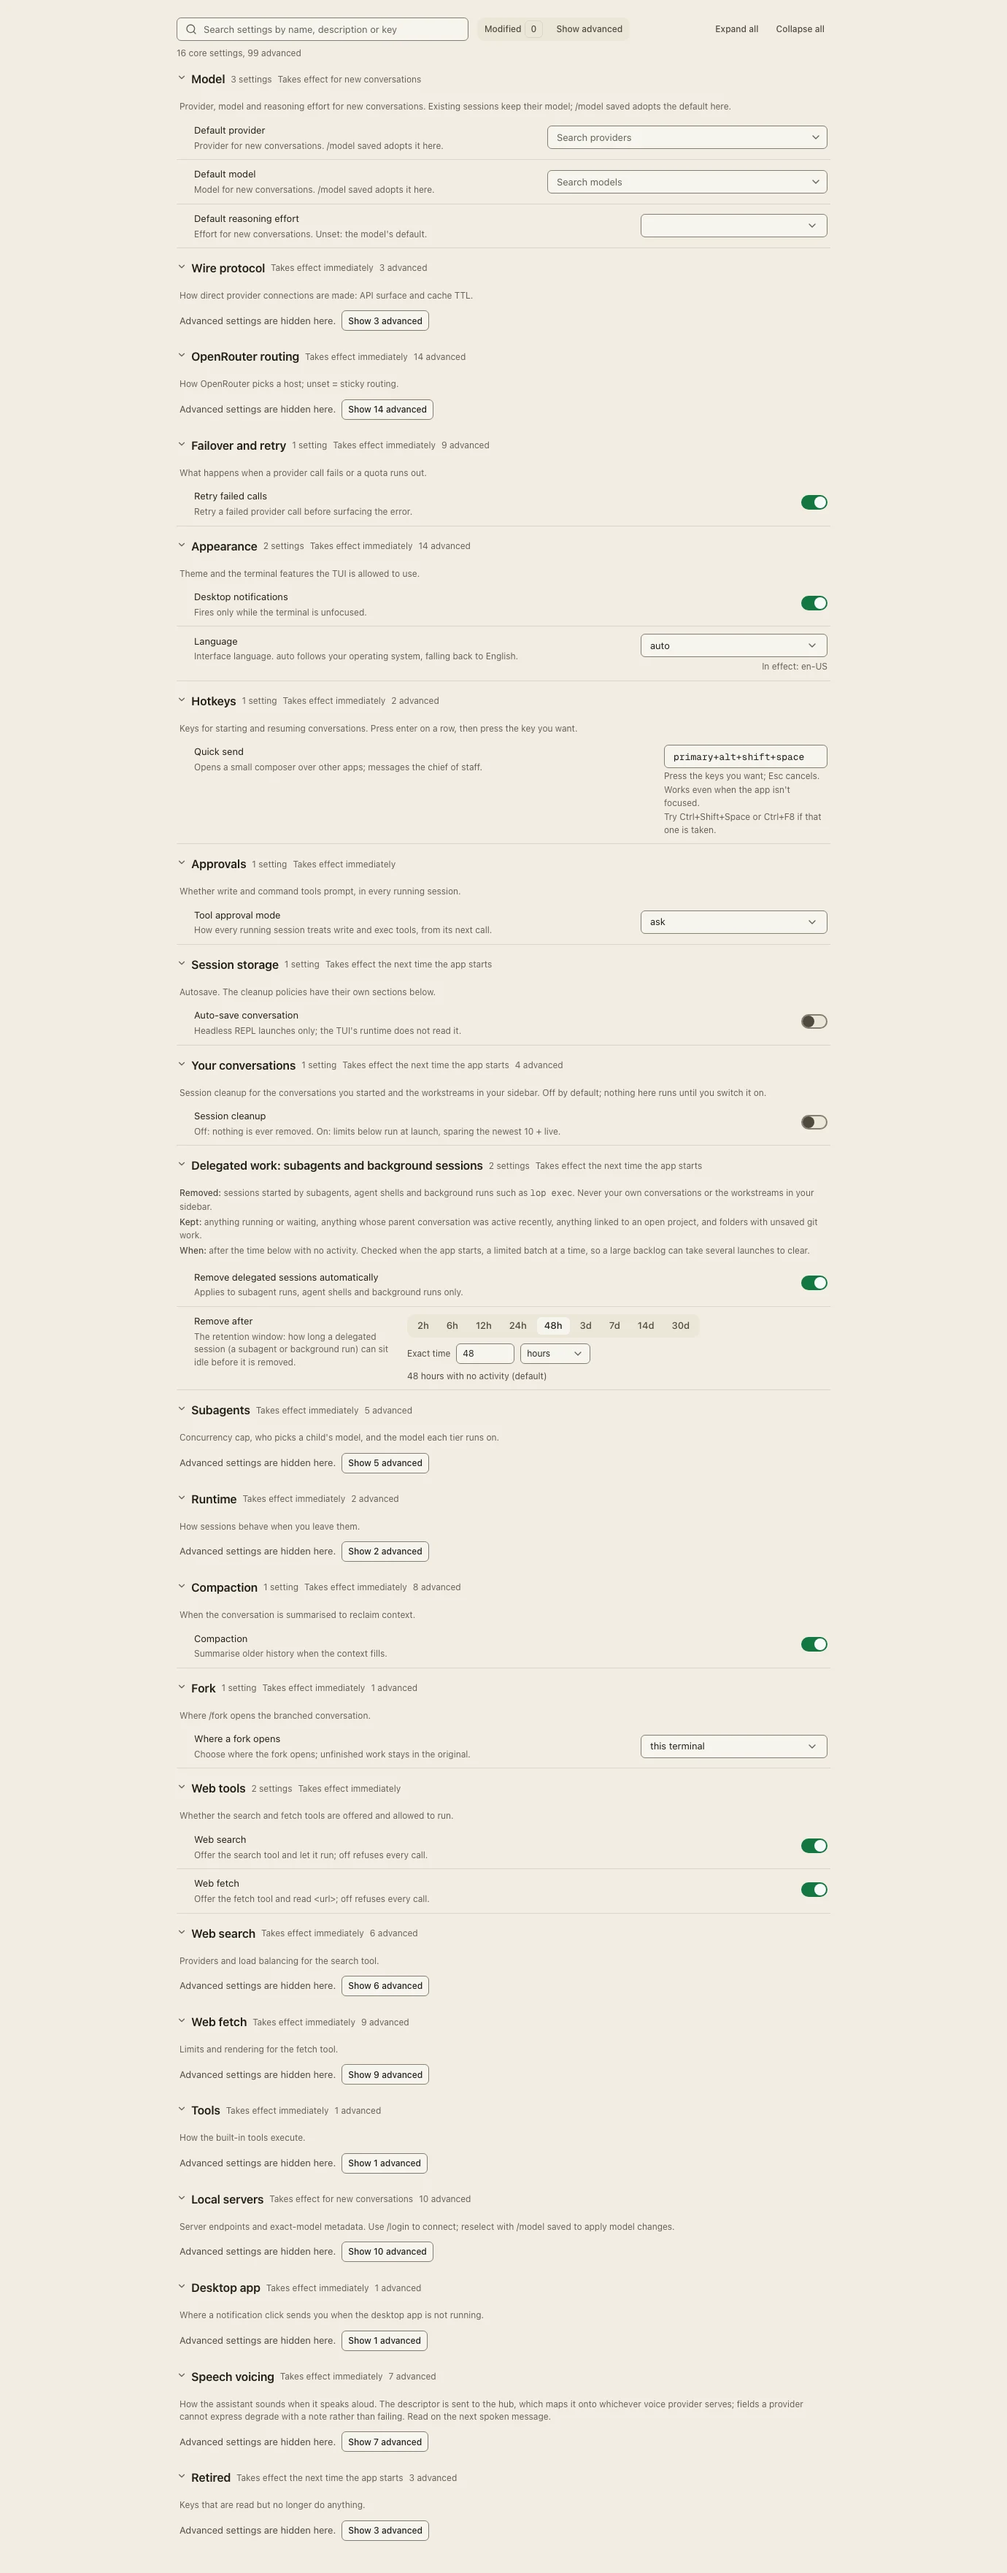
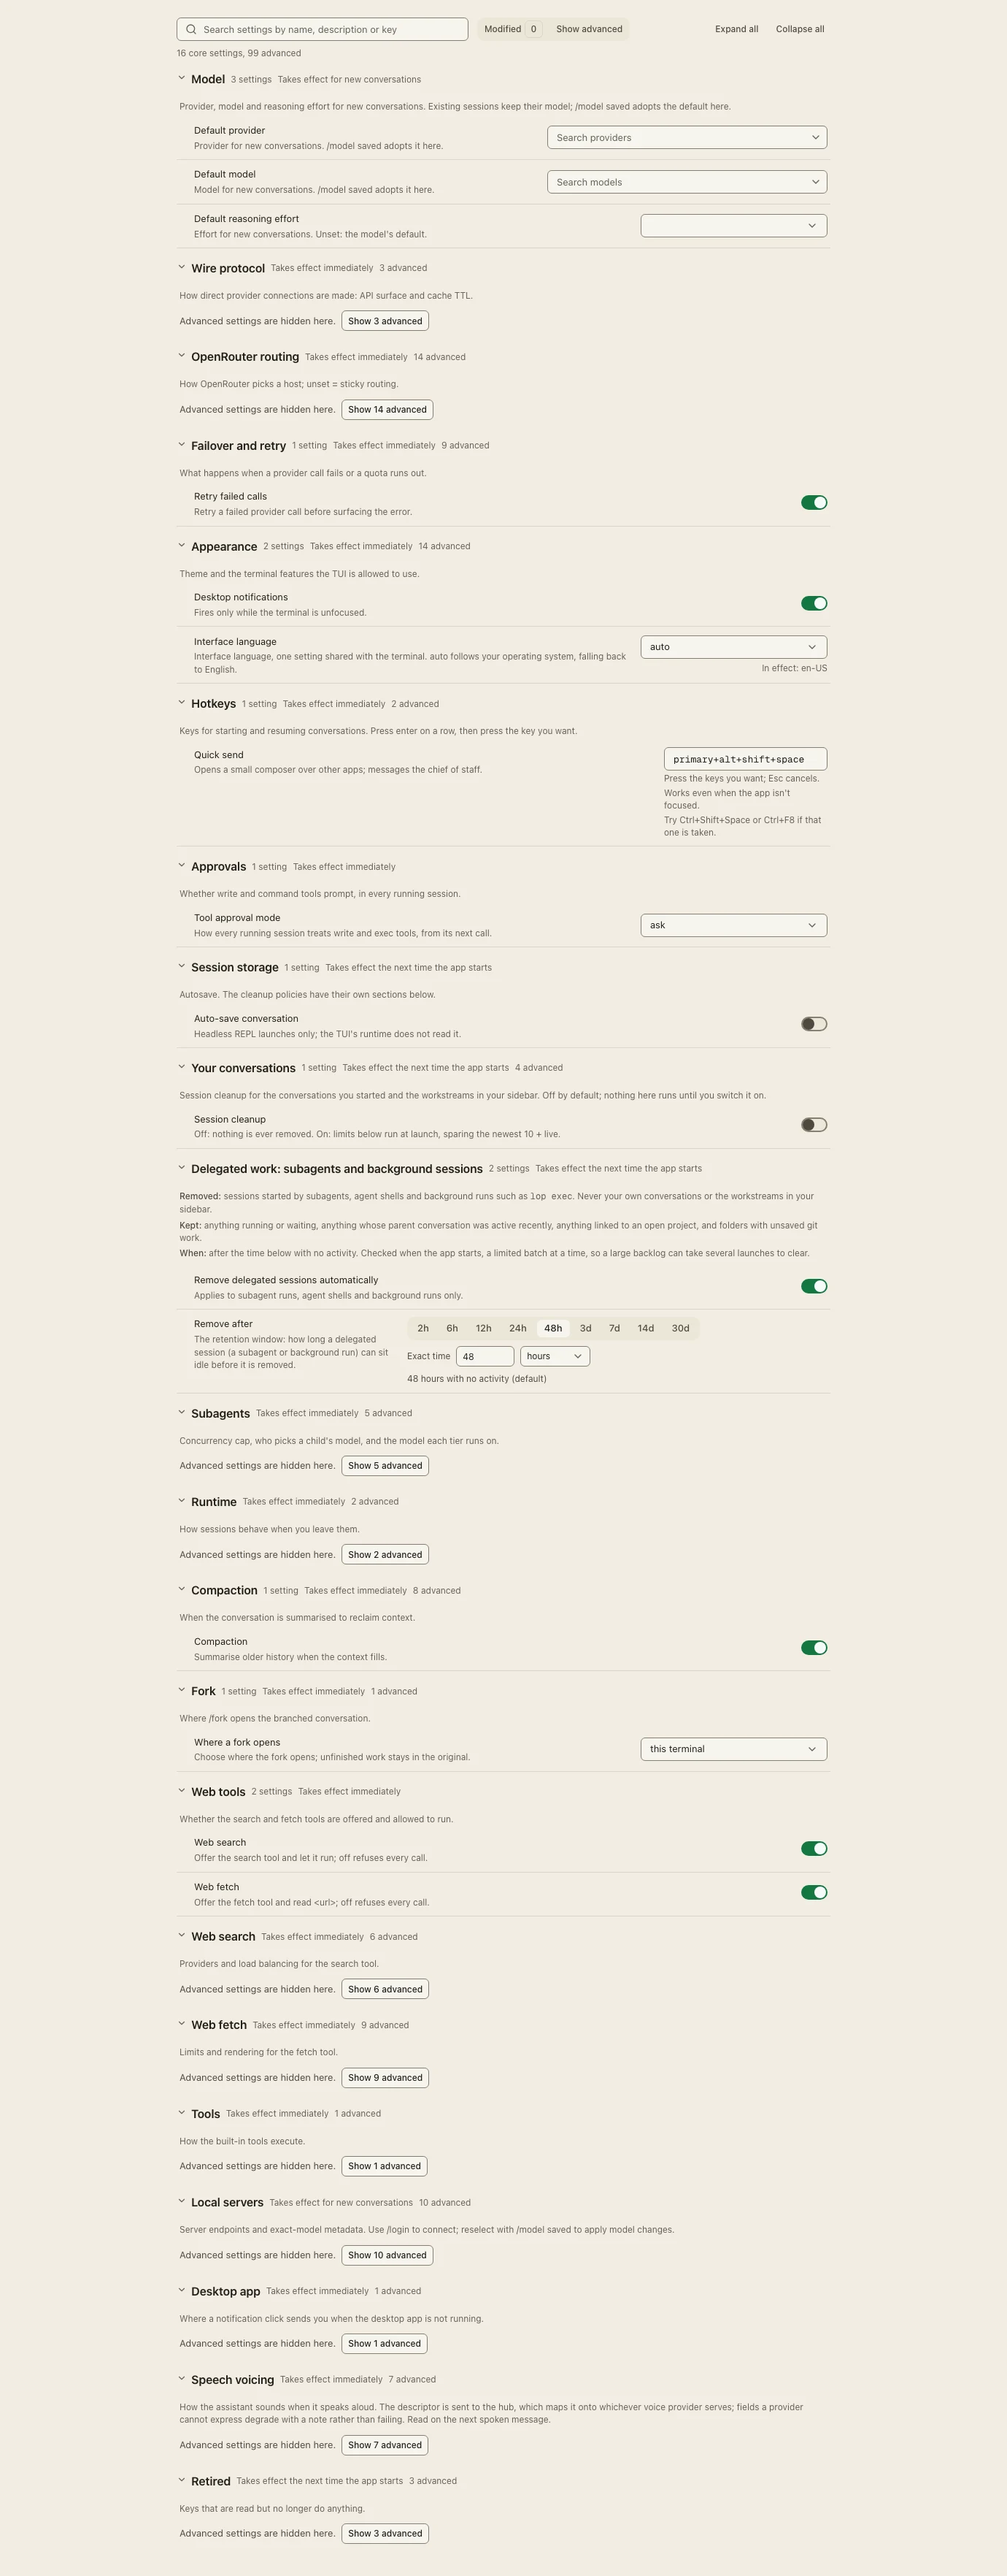
fix(i18n): round-1 remediation - label, note semantics, scope clause, words to pixels (U1)
One batched round answering review, QA, design and UX (their round-1 IDs in
the remediation comments):

- EDITORIAL (review MINOR + QA Q1 + design D1 + UX U1): the README and PR
  body now describe the frames' own pixels - the picker renders `auto`
  (lowercase), the note reads `In effect: en-US` (the story renders without a
  backend answer, so the note reads the device fallback; the capture host is
  en-US), and the row sits after `Desktop notifications`. The words changed,
  not the frames.
- U2 (a11y): the note carries its own id and `aria-live="polite"`, and the
  picker's `aria-describedby` names it - wired through the same `helpId`
  seam every other control kind already uses. Pinned in the suite.
- U3 (search ambiguity): `ROW_COPY` labels the row `Interface language`.
  Searching `language` matched this row and `speech.voice.language`, and two
  rows both labelled `Language` made the wrong pick plausible. The label
  keeps the word the search finds and names the scope.
- U4 (scope clause): the same override adds one help sentence - the setting
  is shared with the terminal, so a reader on this page knows the TUI's
  /settings writes the same key.
- Deferrals recorded in the remediation comments: U5 (raw tags, revisit when
  locales beyond en ship), D2 (vintage-mixed `all-expanded` frames - the
  wave's next sweep), D3 (long-locale/draft/narrow coverage - a limitation),
  and the reviewer NIT (the tiers disclosure now cites the measured 12/1).
[…]

diff --git a/src/renderer/src/features/settings/components/setting-control.tsx b/src/renderer/src/features/settings/components/setting-control.tsx
@@ -377,7 +377,19 @@ export type SettingControlProps = {
  * Shown in every state rather than only beside `auto`: next to an UNSAVED
  * draft it is what says the change has not taken effect yet.
  */
-const EffectiveLanguage = () => {
+/** The effective-note's DOM id, the picker's describedby target (U2). */
+export const settingEffectiveId = (key: string) => `setting-effective-${key}`;
+
+/**
+ * What `auto` resolves to RIGHT NOW, under the language row's picker.
+ *
+ * The note is LIVE (`aria-live="polite"`): a locale that lands while the row
+ * is on screen - this row's own save, or the TUI's, picked up by the
+ * capabilities watch - is announced rather than silently repainted, and the
+ * picker's `aria-describedby` names it so the relationship survives a screen
+ * reader's focus order (U2, round 1).
+ */
+const EffectiveLanguage = ({ id }: { id?: string }) => {
 	const locale = useI18nLocale();
 	/*
 	 * Through `t()` from the first line this string exists: the row is the
@@ -386,7 +398,7 @@ const EffectiveLanguage = () => {
 	 * and `ui.settings.language.effective` is the key that answered it.
 	 */
 	return (
-		<span className="text-meta text-ink-dim">
+		<span id={id} aria-live="polite" className="text-meta text-ink-dim">
 			{t("ui.settings.language.effective", { locale })}
 		</span>
 	);
@@ -416,6 +428,15 @@ export const SettingControl = ({
 	 * `text` slot width, its deep-link reveal seam — therefore stays as it is.
 	 */
 	const comboSource = settingComboSource(setting.key);
+	/*
+	 * The language row's effective note, and its `describedby` target. Only
+	 * this key gets one: the note is the one piece of control-adjacent text
+	 * that changes WITHOUT the reader acting on the control (U2, round 1).
+	 */
+	const effectiveNoteId =
+		setting.key === LANGUAGE_SETTING_KEY
+			? settingEffectiveId(setting.key)
+			: undefined;
 	if (comboSource) {
 		return (
 			<SettingCombobox
@@ -469,7 +490,13 @@ export const SettingControl = ({
 						disabled={disabled}
 						onValueChange={onValueChange}
 					>
-						<SelectTrigger aria-label={setting.label} className="w-full">
+						<SelectTrigger
+							aria-label={setting.label}
+							aria-describedby={
+								[helpId, effectiveNoteId].filter(Boolean).join(" ") || undefined
+							}
+							className="w-full"
+						>
 							<SelectValue />
 						</SelectTrigger>
 						<SelectContent>
@@ -495,7 +522,9 @@ export const SettingControl = ({
 							))}
 						</SelectContent>
 					</Select>
-					{setting.key === LANGUAGE_SETTING_KEY && <EffectiveLanguage />}
+					{setting.key === LANGUAGE_SETTING_KEY && (
+						<EffectiveLanguage id={effectiveNoteId} />
+					)}
 				</div>
 			);
 		case "int":

diff --git a/src/renderer/src/features/settings/backend-setting-copy.ts b/src/renderer/src/features/settings/backend-setting-copy.ts
@@ -42,6 +42,24 @@ type RowCopy = {
 };
 
 export const ROW_COPY: Record<string, RowCopy> = {
+	/*
+	 * The language row. Two user-visible reasons it is overridden:
+	 *
+	 * SEARCH DISAMBIGUATION (round-1 UX U3). Searching `language` matches
+	 * this row and `speech.voice.language`, and two rows both labelled
+	 * `Language` made the wrong pick plausible - the voice setting is scoped
+	 * to speech, this one is the whole app. The label therefore names the
+	 * scope, and keeps the word itself, which is what the search finds.
+	 *
+	 * SCOPE, SPELLED OUT (round-1 UX U4). The wire help never says the TUI's
+	 * /settings writes the same key, because on the terminal that is its own
+	 * page; here the reader cannot see it, so the sentence says it once.
+	 */
+	language: {
+		label: "Interface language",
+		help: "Interface language, one setting shared with the terminal. auto follows your operating system, falling back to English.",
+	},
+
 	[DELEGATED_ENABLED_KEY]: {
 		label: "Remove delegated sessions automatically",
 		help: "Applies to subagent runs, agent shells and background runs only.",

diff --git a/docs/evidence/settings-backend-before/README.md b/docs/evidence/settings-backend-before/README.md
@@ -1,10 +1,11 @@
 # The language row's before half
 
 Two frames of `settings-backend--all-expanded` taken on `origin/main` =
-`9124745a64e` — the base this branch merges into — with **no `Language` row in
+`9124745a64e` — the base this branch merges into — with **no language row in
 the Appearance section: the *before* half of the pair whose *after* half is
-`../settings-backend/all-expanded/` (where the row renders with its
-`In effect: en` note). `localOperatorDark` and `localOperatorLight`, same
+`../settings-backend/all-expanded/` (where the row renders as
+`Interface language`, after `Desktop notifications`, its picker on `auto` and
+`In effect: en-US` under it). `localOperatorDark` and `localOperatorLight`, same
 viewport, same story, same args as the after frames, so the two are a
 like-for-like comparison rather than two sets of measurements.
 
@@ -31,7 +32,8 @@ node scripts/capture-evidence.mjs http://127.0.0.1:6051 \
 git checkout HEAD -- src scripts/fixtures
 ```
 
-The after half was then re-shot the same way from the restored tree, so
+The after half was then re-shot the same way from the restored tree (twice: the
+round-1 remediation's copy change re-took it once more), so
 `../settings-backend/all-expanded/localOperatorDark.webp` and
 `...LocalOperatorLight.webp` are the current tree's own frames.
 
@@ -42,8 +44,10 @@ these need the base tree's own fixture.
 ## What the pair is for
 
 The change is ONE new row and its note, which a single frame cannot show as a
-delta: the after frame's Appearance section carries `Language` between
-`Wake time format` and the rest of the section, its picker on `Auto`, and
-`In effect: en` under the picker; the before frame is the same section without
-that row and with nothing else moved. The measurements and the design notes
-belong in the PR, not here.
+delta: the after frame's Appearance section carries `Interface language`
+immediately after `Desktop notifications` (in both palettes), its picker on
+`auto`, and `In effect: en-US` under the picker - en-US because the story
+renders without a backend answer, so the note reads the store's device
+fallback, which on the capture host is en-US. The before frame is the same
+section without that row, and with nothing else moved. The measurements and
+the design notes belong in the PR, not here.
